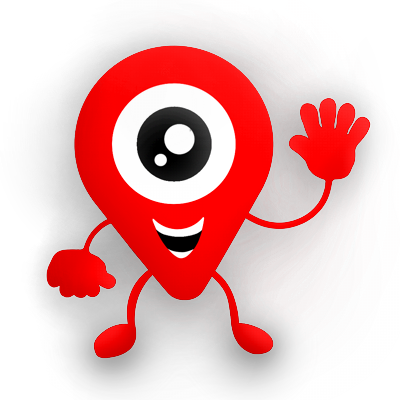
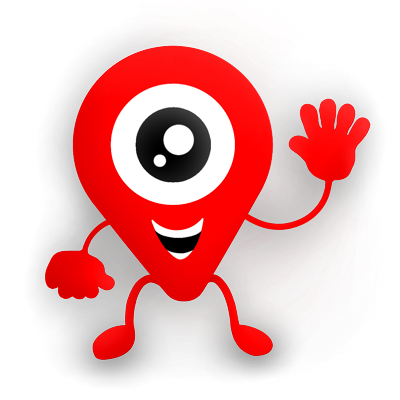
feat: send bearer with account deletion, consistent animations for tutorial background and navigation background and popup, revised tutorial welcome mascot

diff --git a/src/lib/components/Navigation.svelte b/src/lib/components/Navigation.svelte
@@ -5,7 +5,7 @@
 	import { bugspotPopup, navigationMenu, settingsPopup } from "$lib/stores/uiStore";
 	import { playSound } from "$lib/utils/soundManager";
 	import { tooltip } from "$lib/utils/tooltip.svelte";
-	import { blur, fade, fly, scale } from "svelte/transition";
+	import { fade, fly, scale } from "svelte/transition";
 	import ExperienceLevelCircle from "./ExperienceLevelCircle.svelte";
 	import { showProfile } from "$lib/utils/showProfile";
 	import { signupPrompt } from "$lib/utils/signupPrompt";
@@ -58,7 +58,7 @@
 		style:display={page.url.pathname !== "/" ? "none" : ""}
 		tabindex="0"
 		role="button"
-		transition:blur={{ duration: 250 }}
+		transition:fade={{ duration: 100 }}
 		onclick={(e) => {
 			if (e.target === e.currentTarget) $navigationMenu = false;
 		}}

diff --git a/src/lib/components/TutorialOverlay.svelte b/src/lib/components/TutorialOverlay.svelte
@@ -44,7 +44,7 @@
 	import { playSound } from "$lib/utils/soundManager";
 	import { ArrowRight, Play } from "@lucide/svelte";
 	import { get } from "svelte/store";
-	import { blur, fly } from "svelte/transition";
+	import { blur, fade, fly } from "svelte/transition";
 	import Chip from "./ui/Chip.svelte";
 	import { resultScreenEnabled } from "$lib/stores/context-specific/resultScreenStore";
 	import { menuIntroductionNote } from "./TopBar.svelte";
@@ -119,7 +119,7 @@
 		class="tutorial-overlay"
 		role="menu"
 		tabindex="0"
-		transition:blur={{ duration: 250 }}
+		transition:fade={{ duration: 100 }}
 		style:display={page.url.pathname !== "/" ? "none" : ""}
 		onclick={(e) => {
 			if (e.target === e.currentTarget || e.target === contentContainer) dismissOverlay();

diff --git a/src/lib/utils/deleteAccount.js b/src/lib/utils/deleteAccount.js
@@ -22,7 +22,8 @@ async function deleteUser(password) {
         const response = await fetch(`${get(apiUrl)}/accounts/delete`, {
             method: 'DELETE',
             headers: {
-                'Content-Type': 'application/json'
+                'Content-Type': 'application/json',
+                'Authorization': `Bearer ${localStorage.getItem("bearer")}`,
             },
             body: JSON.stringify({
                 id: localStorage.getItem("id"),

diff --git a/src/lib/components/TutorialNote.svelte b/src/lib/components/TutorialNote.svelte
@@ -109,9 +109,9 @@
 
 	.welcome-image {
 		position: absolute;
-		top: -60px;
-		right: 35%;
-		rotate: -5deg;
+		top: -61px;
+		right: max(115px, 32%);
+		rotate: -3deg;
 		transform: translateX(50%);
 		height: 90px;
 		width: 90px;
